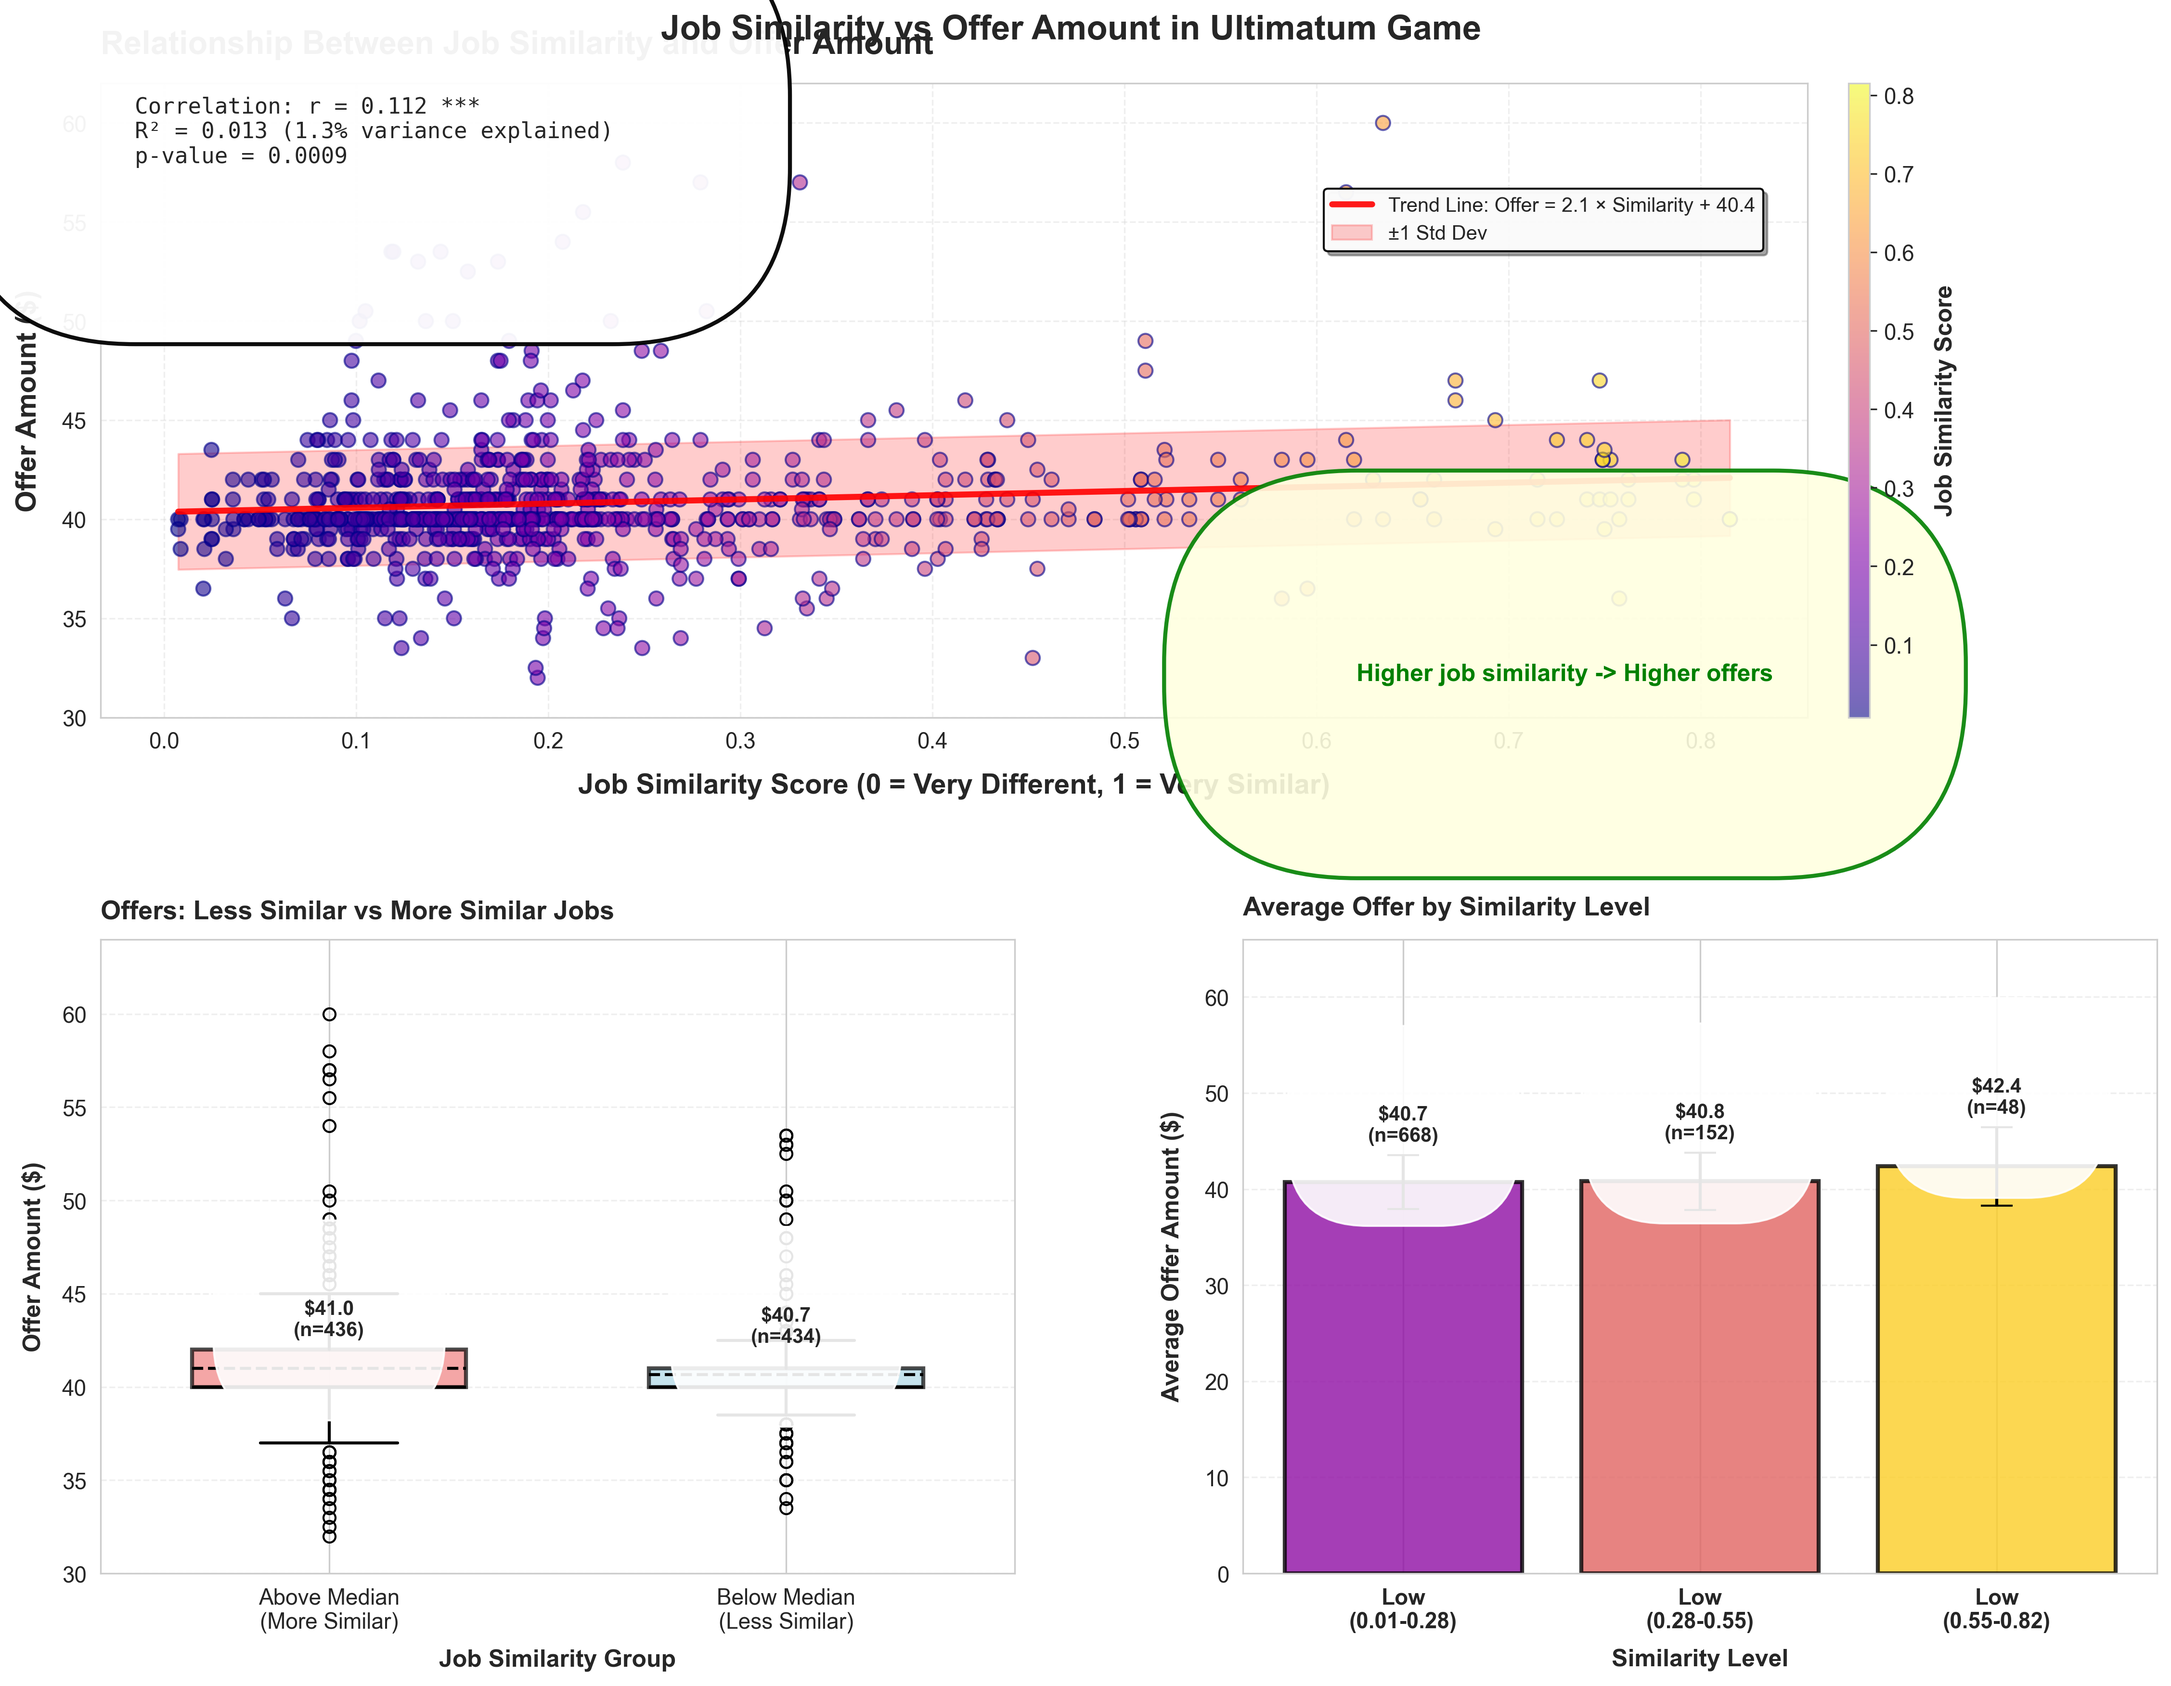
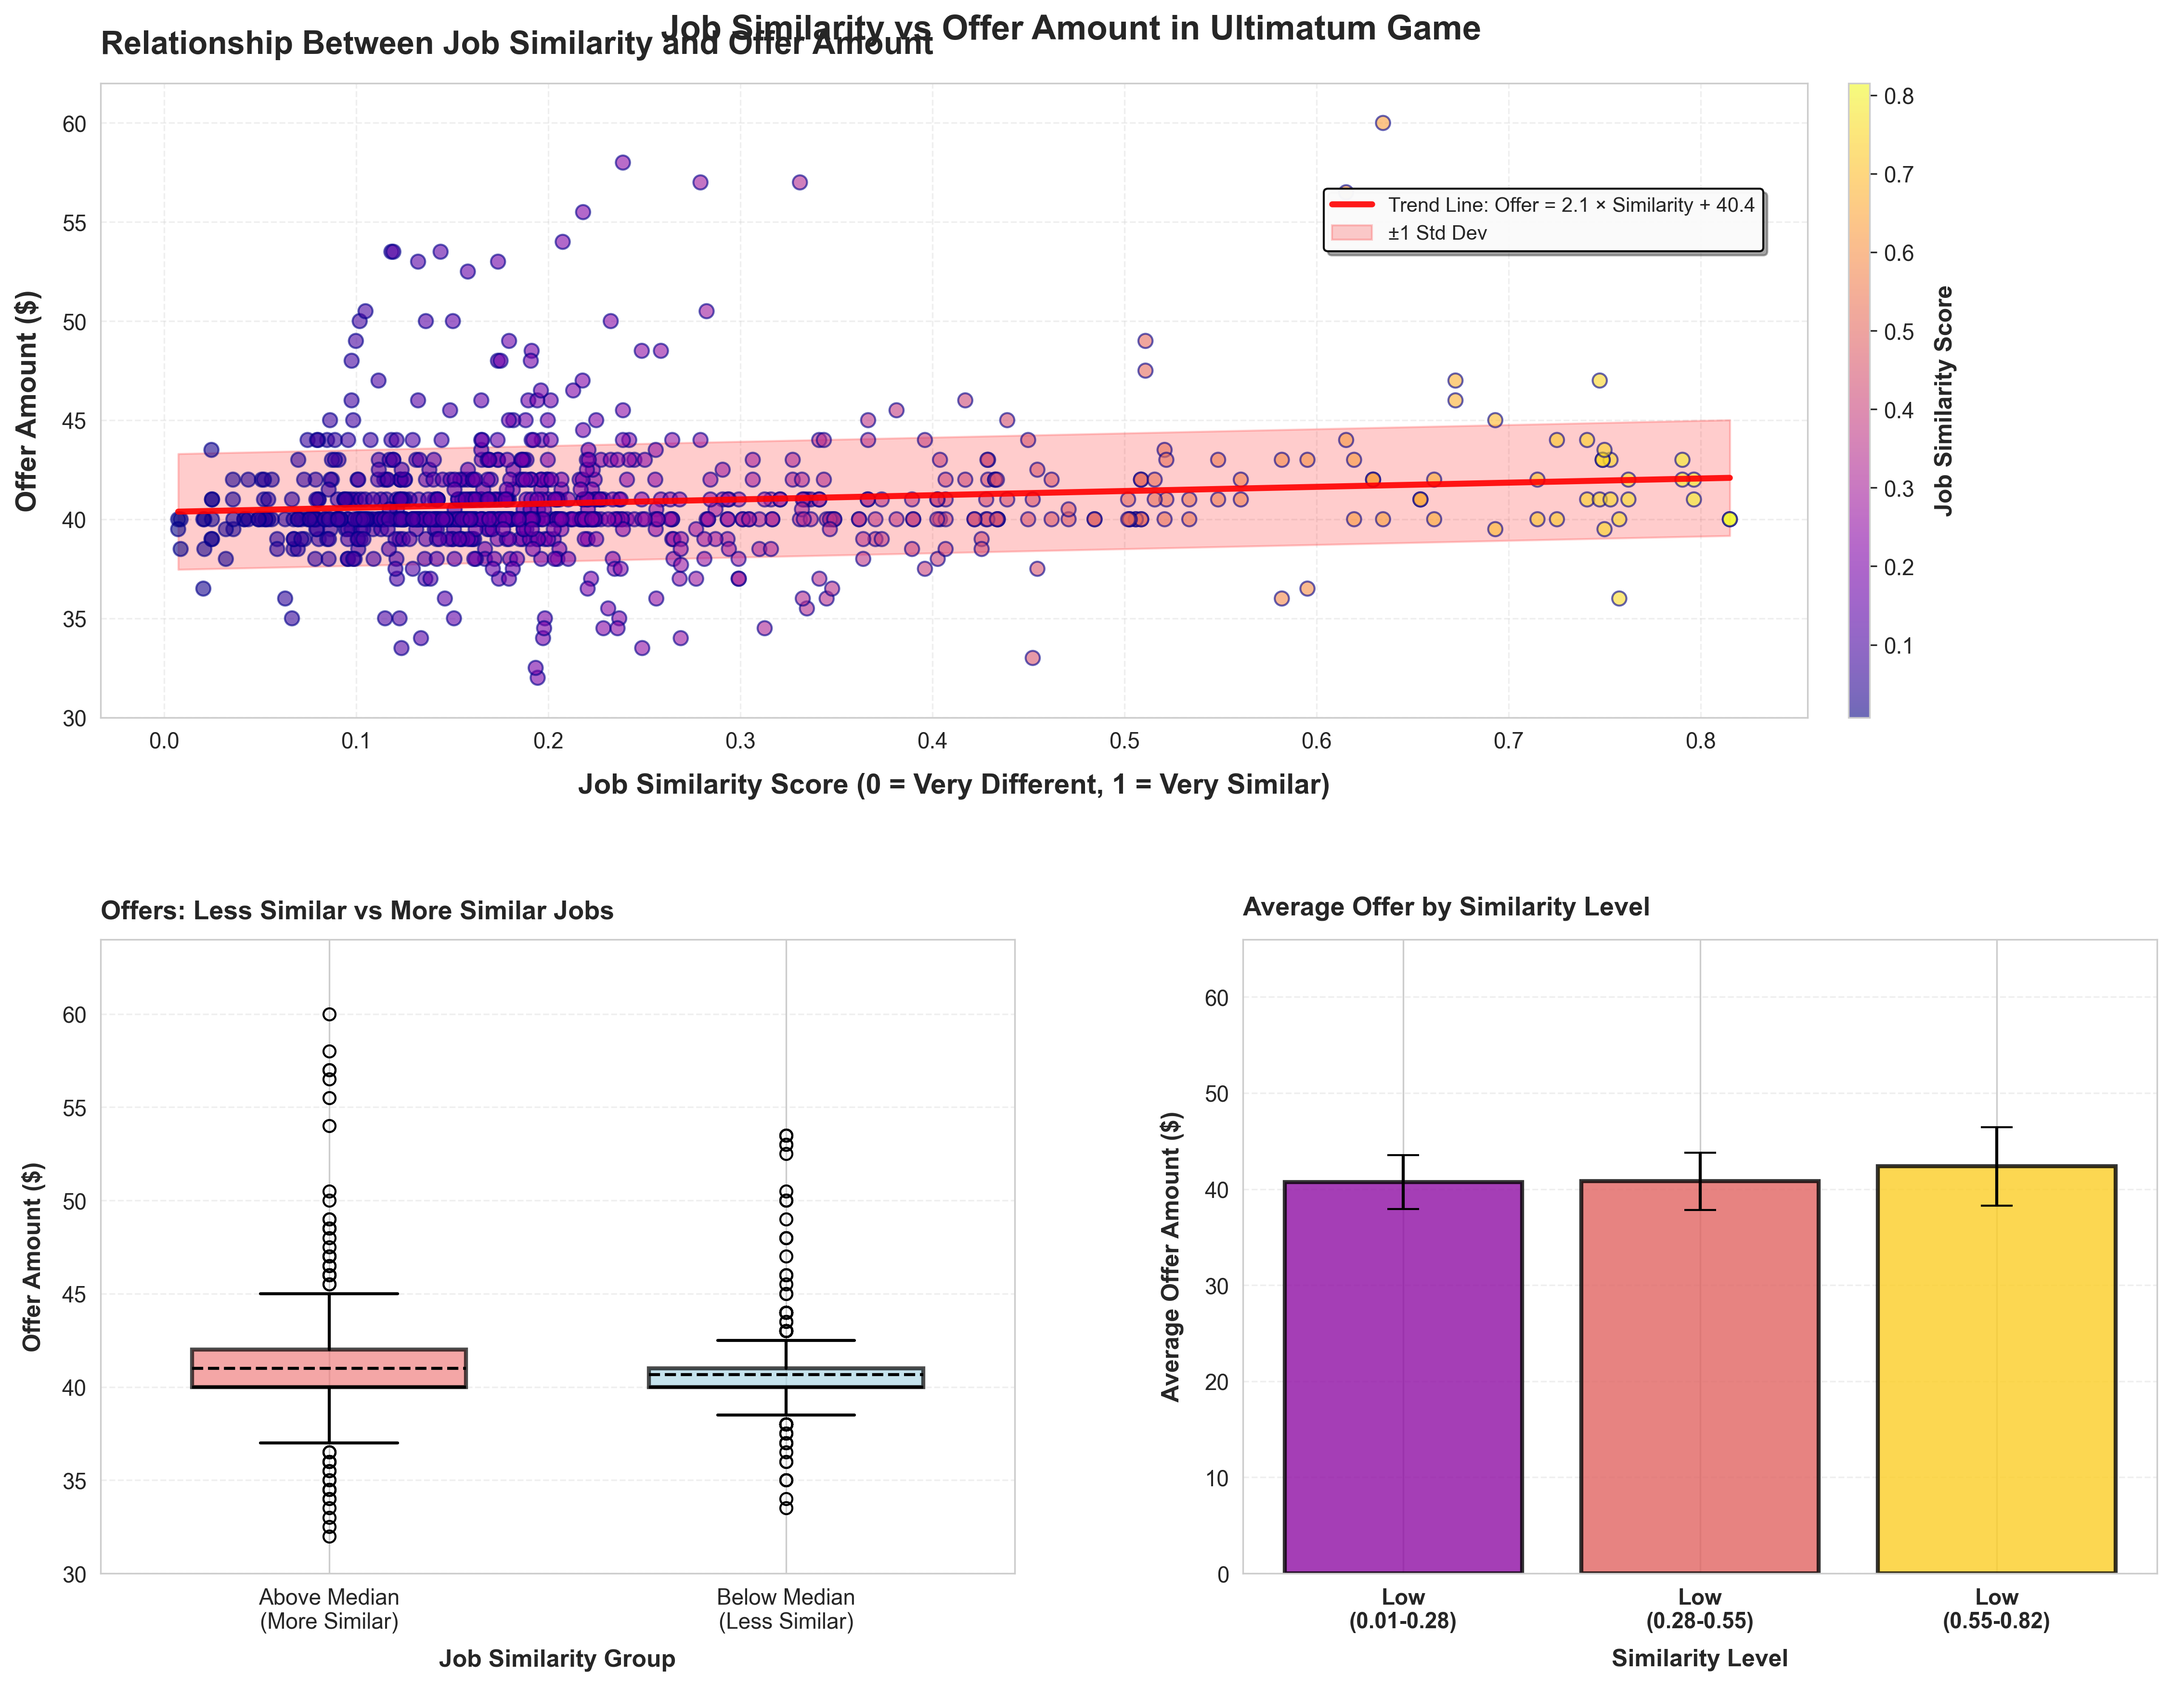
Remove all data bubbles and interpretation text from similarity figures

diff --git a/analyze_job_similarity_offers.py b/analyze_job_similarity_offers.py
@@ -334,45 +334,6 @@ def create_visualizations(df: pd.DataFrame, output_dir: str = "visualizations", 
     ax1.fill_between(x_line, y_line - y_std, y_line + y_std, 
                      alpha=0.2, color='red', label='±1 Std Dev')
     
-    # Add correlation and significance info in a clear box
-    sig_text = "***" if p_value < 0.001 else "**" if p_value < 0.01 else "*" if p_value < 0.05 else "ns"
-    info_text = f'Correlation: r = {correlation:.3f} {sig_text}\n'
-    info_text += f'R² = {r_squared:.3f} ({r_squared*100:.1f}% variance explained)\n'
-    info_text += f'p-value = {p_value:.4f}'
-    
-    # Add correlation info box - positioned to avoid legend
-    ax1.text(0.02, 0.98, info_text,
-             transform=ax1.transAxes,
-             fontsize=11,
-             verticalalignment='top',
-             horizontalalignment='left',
-             bbox=dict(boxstyle='round', facecolor='white', edgecolor='black', 
-                      linewidth=2, alpha=0.95, pad=8),
-             family='monospace',
-             zorder=5)
-    
-    # Add interpretation text
-    if correlation > 0.1:
-        interp = "Higher job similarity -> Higher offers"
-        color = 'green'
-    elif correlation < -0.1:
-        interp = "Higher job similarity -> Lower offers"
-        color = 'red'
-    else:
-        interp = "Weak relationship between similarity and offers"
-        color = 'gray'
-    
-    ax1.text(0.98, 0.05, interp,
-             transform=ax1.transAxes,
-             fontsize=12,
-             fontweight='bold',
-             color=color,
-             horizontalalignment='right',
-             verticalalignment='bottom',
-             bbox=dict(boxstyle='round', facecolor='lightyellow', 
-                      edgecolor=color, linewidth=2, alpha=0.9, pad=8),
-             zorder=5)
-    
     ax1.set_xlabel('Job Similarity Score (0 = Very Different, 1 = Very Similar)', 
                    fontsize=14, fontweight='bold', labelpad=10)
     ax1.set_ylabel('Offer Amount ($)', fontsize=14, fontweight='bold', labelpad=10)
@@ -418,14 +379,6 @@ def create_visualizations(df: pd.DataFrame, output_dir: str = "visualizations", 
     # Style other elements
     for element in ['whiskers', 'fliers', 'means', 'medians', 'caps']:
         plt.setp(bp[element], color='black', linewidth=1.5)
-    
-    # Add mean values on top
-    for i, group in enumerate(groups):
-        mean_val = df[df['similarity_group'] == group]['offer'].mean()
-        count = len(df[df['similarity_group'] == group])
-        ax2.text(i+1, mean_val + 1.5, f'${mean_val:.1f}\n(n={count})',
-                ha='center', va='bottom', fontsize=10, fontweight='bold',
-                bbox=dict(boxstyle='round', facecolor='white', alpha=0.9, pad=4))
     
     ax2.set_ylabel('Offer Amount ($)', fontsize=12, fontweight='bold', labelpad=8)
     ax2.set_xlabel('Job Similarity Group', fontsize=12, fontweight='bold', labelpad=8)
@@ -473,16 +426,6 @@ def create_visualizations(df: pd.DataFrame, output_dir: str = "visualizations", 
         ax3.set_title('Average Offer by Similarity Level', 
                       fontsize=13, fontweight='bold', pad=12, loc='left')
         ax3.grid(True, alpha=0.3, axis='y', linestyle='--')
-        
-        # Add value labels on bars
-        for i, (bar, mean_val, std_val, count) in enumerate(zip(bars, avg_by_bin['mean'], 
-                                                                 avg_by_bin['std'], 
-                                                                 avg_by_bin['count'])):
-            height = bar.get_height()
-            ax3.text(bar.get_x() + bar.get_width()/2., height + std_val + 1,
-                    f'${mean_val:.1f}\n(n={int(count)})',
-                    ha='center', va='bottom', fontsize=10, fontweight='bold',
-                    bbox=dict(boxstyle='round', facecolor='white', alpha=0.9, pad=4))
         
         ax3.set_ylim([0, df['offer'].max() + 6])
         ax3.set_xlabel('Similarity Level', fontsize=12, fontweight='bold', labelpad=8)
